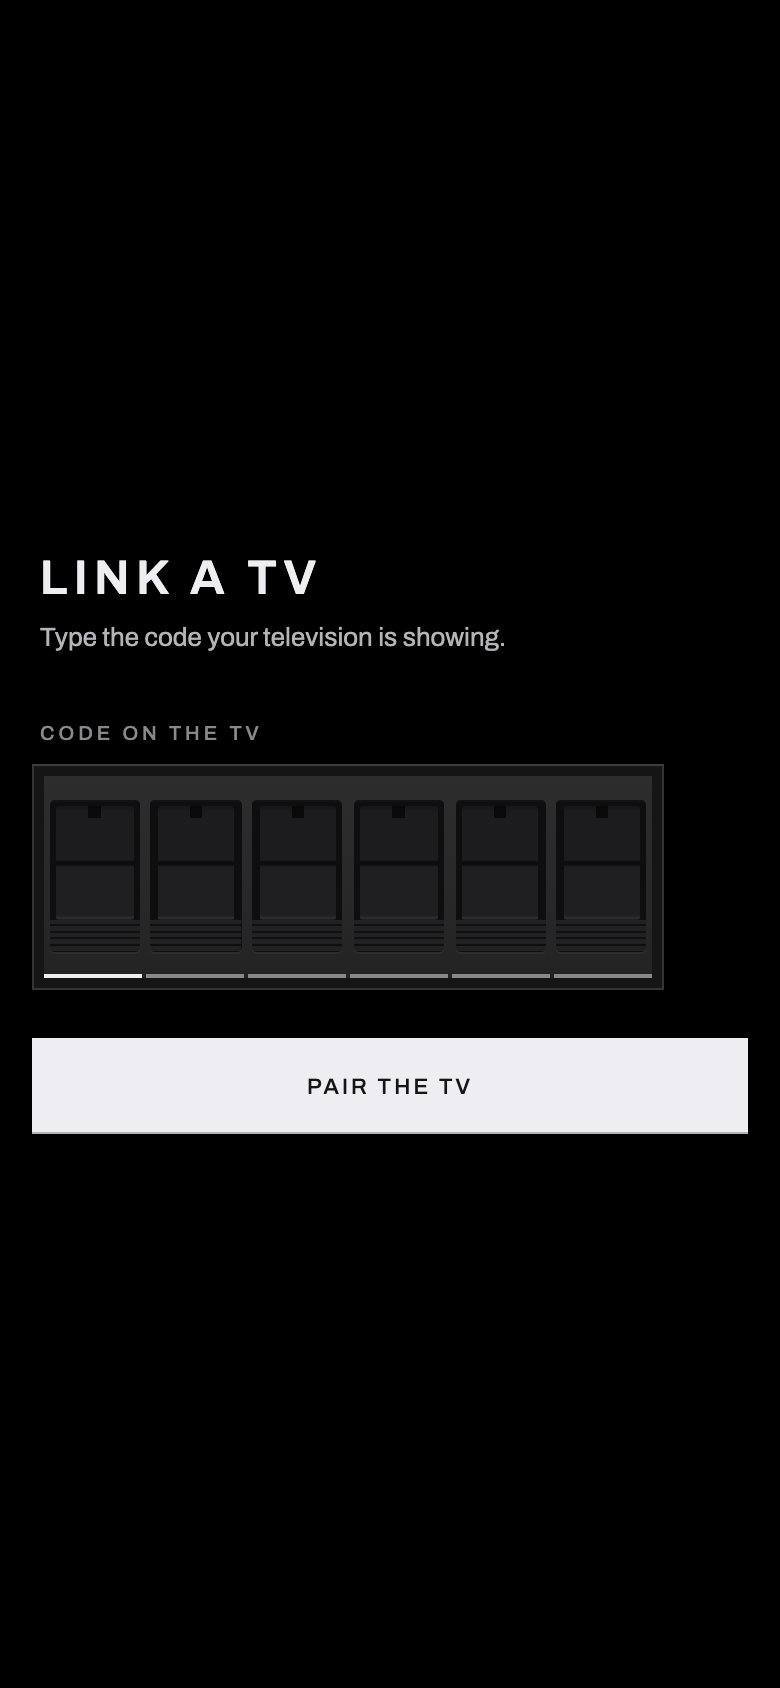
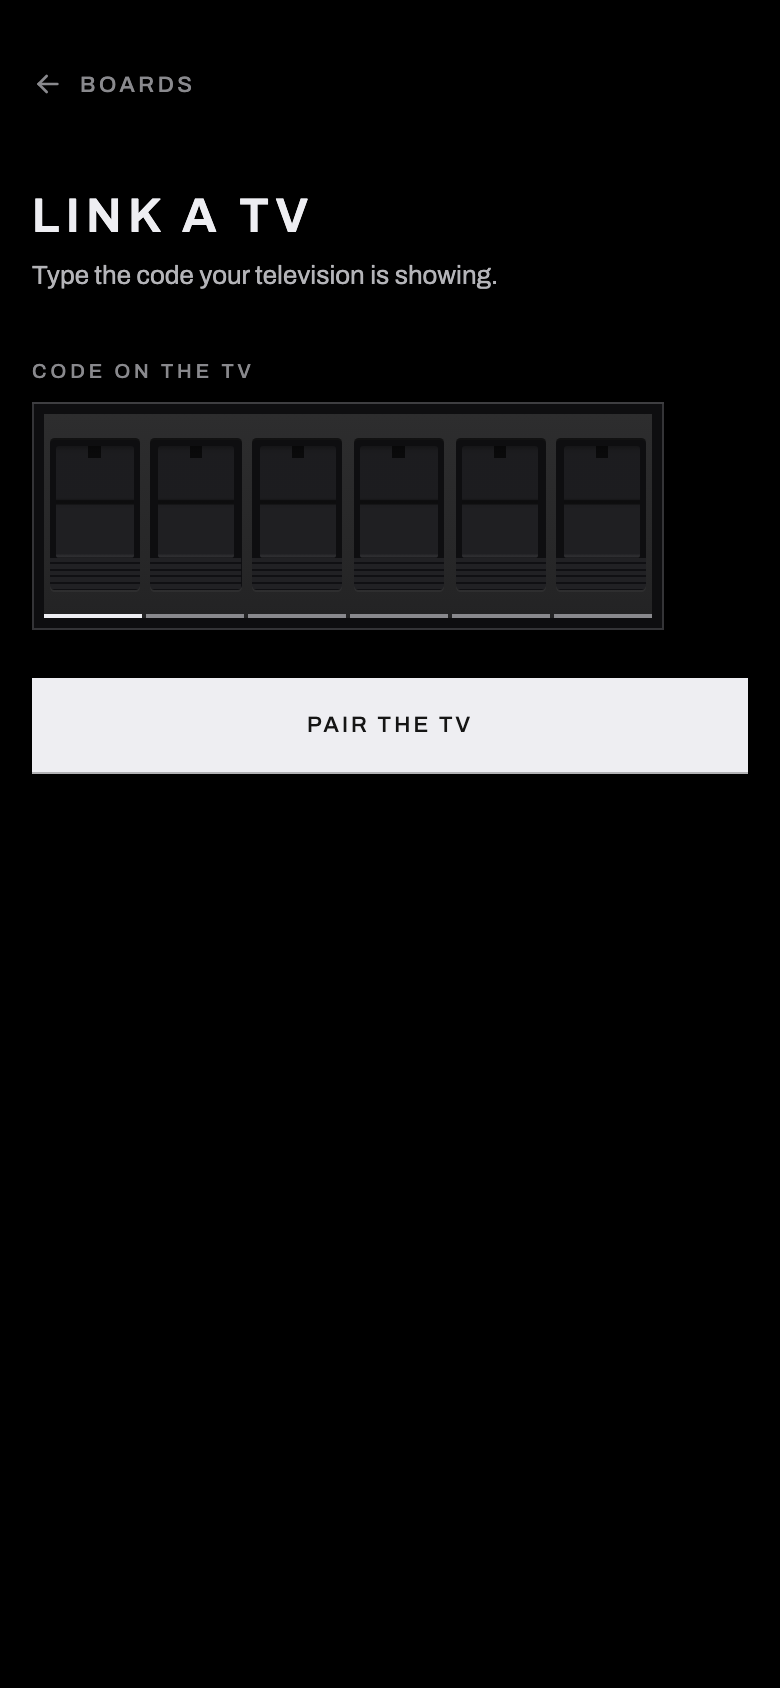
fix(design): third critic round — SHIP, plus the cheap P2/P3s
`design-critic` returned SHIP. No P0, no P1; all eight round-2 items
verified against the pixels with numbers (slot bars 5.2:1 empty and
15.9:1 on the next cell, swatches 64x48 CSS at 8px pitch, the pinned
action bar's bottom edge at CSS y=841 of an 844 viewport, one encoding of
"selected" across all five segmented controls).

Taken from the remaining P2/P3s:

- The label left rule. Three gutters coexisted because each label variant
  carried its own inset — MESSAGE at 20.5, RECENTLY at 24.5, everything
  else at 16. All flush now.
- The last nested container. PAIRED DEVICES wrapped one sentence and two
  hairline buttons in a fill; there is no plate left on that tab.
- `/link` was vertically centred with no way out. Centring looked calm and
  behaved badly: opening the phone keyboard halves the viewport, the block
  re-centres, and the field slides under the thumb mid-code. Top-anchored,
  and a refused code no longer leaves the browser gesture as the only exit.
- The copy key measured 39px against a 44px floor on one axis.
- The code field sits in the well tone rather than the panel, so unlit
  modules read as objects (1.11:1 → 1.17:1). Marginal, and honest: an
  unlit flap on a dark console IS low contrast — that is the object. The
  slot bars are what carry legibility.

Refuted, with the reason: the blank eighth swatch reads as a missing item
but is correct. `white` and `black` share a fill on the real board, so
[…]

diff --git a/app/routes/link.tsx b/app/routes/link.tsx
@@ -1,8 +1,10 @@
 import { useState } from "react";
 import { Effect, Exit } from "effect";
 import { useTranslation } from "react-i18next";
-import { Form, redirect, useNavigation } from "react-router";
+import { Form, Link, redirect, useNavigation } from "react-router";
 import type { AppLoadContext } from "react-router";
+
+import { IconArrowLeft } from "@tabler/icons-react";
 
 import type { Route } from "./+types/link";
 import { requireSession } from "@/lib/session";
@@ -289,7 +291,10 @@ function FlapCodeField({
       data-flap-code=""
       style={{
         padding: "6px",
-        backgroundColor: CONSOLE.panel,
+        // The WELL, not the panel: unlit faces (#1f1f22) measured 1.11:1 against
+        // the panel, so the six modules were invisible until typed. A hole is
+        // also what a set of flaps is actually cut into.
+        backgroundColor: CONSOLE.well,
         // A hairline ALWAYS, so the assembly reads as a control before anyone
         // touches it. The first pass showed a bare plate whose six unlit tiles
         // measured 1.15:1 against it — correct for a flap at rest, and
@@ -403,8 +408,27 @@ export default function LinkTv({
   const [code, setCode] = useState(loaderData.code ?? "");
 
   return (
-    <ConsoleField data-testid="link-root" className="justify-center gap-8">
-      <header className="flex flex-col gap-2 px-1">
+    /*
+      Top-anchored, not vertically centred. Centring looked calm and behaved
+      badly: when the phone keyboard opens the viewport halves and the whole
+      block re-centres, so the field a person is typing into slides under their
+      thumb mid-code. A fixed top also means the heading does not move between
+      the empty and the failed state.
+    */
+    <ConsoleField data-testid="link-root" className="gap-8">
+      {/* The way out. A refused code used to leave the browser gesture as the
+          only exit — on a phone, in a flow someone entered by scanning a QR. */}
+      <Link
+        to="/boards"
+        className={`inline-flex min-h-11 w-fit touch-manipulation items-center gap-2 text-[11px] font-medium uppercase ${FOCUS_RING}`}
+        style={{ color: CONSOLE.inkMute, letterSpacing: "0.16em" }}
+        data-testid="link-back"
+      >
+        <IconArrowLeft className="size-4" aria-hidden />
+        {t("controller.back")}
+      </Link>
+
+      <header className="flex flex-col gap-2">
         <h1
           className="text-[24px] leading-none font-semibold uppercase"
           style={{ color: CONSOLE.ink, letterSpacing: "0.14em" }}
@@ -422,7 +446,7 @@ export default function LinkTv({
       <Form method="post" className="flex flex-col gap-6">
         <div className="flex flex-col gap-2.5">
           <span
-            className="px-1 text-[10px] leading-none font-medium uppercase"
+            className="text-[10px] leading-none font-medium uppercase"
             style={{ color: CONSOLE.inkMute, letterSpacing: "0.2em" }}
           >
             {t("link.codeLabel")}

diff --git a/app/components/board/controller-settings.tsx b/app/components/board/controller-settings.tsx
@@ -14,7 +14,6 @@ import {
   CONSOLE,
   ConsoleLabel,
   ConsoleReadout,
-  PLATE_LIP,
   WELL_LIP,
 } from "@/components/board/console";
 import { ConsoleAddress } from "@/components/board/console-address";
@@ -93,12 +92,12 @@ export interface ControllerSettingsProps {
  */
 const GROUP = "flex flex-col gap-3";
 
-/** A plate, for the one section that holds content rather than controls. */
-const PLATE = "flex flex-col gap-3 px-3 py-3";
-const PLATE_STYLE = {
-  backgroundColor: CONSOLE.panel,
-  boxShadow: PLATE_LIP,
-} as const;
+/*
+  There is no `PLATE` on this tab any more. The device list was the last thing
+  holding one, on the reasoning that a *list* is content rather than controls —
+  but the list is one sentence and two hairline buttons, so the fill was the
+  only nested container in the product and bought nothing.
+*/
 
 /** The one action treatment: off-white plate, dark ink, square, 44px. */
 const INK_KEY =
@@ -488,7 +487,7 @@ export function ControllerSettings({
                 value={deviceList.length}
               />
             </ConsoleLabel>
-            <div className={PLATE} style={PLATE_STYLE}>
+            <div className={GROUP}>
               {deviceList.length === 0 ? (
                 <p
                   className="text-[12px] leading-relaxed"

diff --git a/app/components/board/console-address.tsx b/app/components/board/console-address.tsx
@@ -89,7 +89,7 @@ export function ConsoleAddress({
   return (
     <div className={cn("flex flex-col gap-1.5", className)}>
       <span
-        className="px-1 text-[10px] leading-none font-medium uppercase"
+        className="text-[10px] leading-none font-medium uppercase"
         style={{ color: CONSOLE.inkMute, letterSpacing: "0.2em" }}
       >
         {label ?? t("card.tv_label")}
@@ -123,7 +123,7 @@ export function ConsoleAddress({
           onClick={handleCopy}
           data-testid={`${testId}-copy`}
           aria-label={t("card.copy")}
-          className="flex min-h-11 shrink-0 touch-manipulation items-center gap-1.5 px-3 text-[11px] font-medium uppercase"
+          className="flex min-h-11 min-w-11 shrink-0 touch-manipulation items-center justify-center gap-1.5 px-3.5 text-[11px] font-medium uppercase"
           style={{
             color: CONSOLE.inkDim,
             letterSpacing: "0.14em",
@@ -144,7 +144,7 @@ export function ConsoleAddress({
       <span
         aria-live="polite"
         className={cn(
-          "px-1 text-[11px] transition-opacity",
+          "text-[11px] transition-opacity",
           state === "manual" ? "opacity-100" : "h-0 overflow-hidden opacity-0"
         )}
         style={{ color: CONSOLE.inkMute }}

diff --git a/app/components/board/message-editor.tsx b/app/components/board/message-editor.tsx
@@ -1283,7 +1283,10 @@ export function MessageEditor({
             type="button"
             aria-expanded={rowsOpen}
             onClick={() => setRowsOpen((open) => !open)}
-            className="flex min-h-11 touch-manipulation items-center justify-between px-1 text-[10px] leading-none font-medium uppercase"
+            // Flush with the block below it — no `px-1`. This label is a
+            // button, and its inset put MESSAGE on a different left rule from
+            // LIVE BOARD and VOICE on the same screen.
+            className="flex min-h-11 touch-manipulation items-center justify-between text-[10px] leading-none font-medium uppercase"
             style={{ color: CONSOLE.inkMute, letterSpacing: "0.2em" }}
             data-testid="control-editor-rows-toggle"
           >

diff --git a/.brain/features/console-journey-v2/verifications/2026-07-31.md b/.brain/features/console-journey-v2/verifications/2026-07-31.md
@@ -15,7 +15,7 @@
 |---|------|----------|----------|------------|--------|
 | 01 | Open `/tv` | Pairing code rendered as six real flaps, unlit with white glyphs — not a mono readout | Six flaps on a lipped plate under a silkscreened "OR TYPE"; QR above; amber pilot lamp lit | [`01-tv-flap-code.png`](../screenshots/01-tv-flap-code.png) | ✅ |
 | 02 | Read the code programmatically | Available without parsing doubled glyph text | `data-text="EUAZNZ"` on the `tv-code` element. (The flaps render each glyph **twice** — two stacked faces — so `textContent` is `"EEUUAA…"`. The attribute exists because of that.) | — | ✅ |
-| 03 | Open `/link` | A code field and nothing else — no board picker, no `<select>`, no naming field, no segmented "existing / new" track | One labelled field, autofocused with the amber bezel, one ink key | [`02-link-code-field.png`](../screenshots/02-link-code-field.png) | ✅ |
+| 03 | Open `/link` | A code field and nothing else — no board picker, no `<select>`, no naming field, no segmented "existing / new" track | Six flap modules in a well as the field itself, with a slot bar under each and the next cell lit; a back link, the heading, one ink key. (This step was re-run after the design rounds — it started as a plain mono input.) | [`02-link-code-field.png`](../screenshots/02-link-code-field.png) | ✅ |
 | 04 | Open the controller | Content \| Settings tabs at `/b/:boardId/c` — path unchanged | Tabs full-width in a recessed groove; nameplate and REV above; account bar above that | [`03-controller-content.png`](../screenshots/03-controller-content.png) | ✅ |
 | 05 | Content tab, nothing composed | ONE board, showing the live socket state, labelled "LIVE BOARD" | Shows `EPOCH CHECK` — the board's actual revision 97 content, off the socket | [`03-controller-content.png`](../screenshots/03-controller-content.png) | ✅ |
 | 06 | Type `HELLO` into row 1 | The same rectangle swaps to the draft and relabels | Label becomes "PREVIEW", grid shows `HELLO`; wells sit below the instrument, not above it | [`04-controller-composing.png`](../screenshots/04-controller-composing.png) | ✅ |
@@ -74,7 +74,13 @@ Driven at 390×844 after the fixes below. **Read after a 400ms settle, never on 
 | Three "selected" encodings | every one of them passes contrast and target size individually |
 | Mute switch reading backwards | `aria-checked` was correct; the *semantics* were inverted |
 
-**Deliberately not taken, and recorded as owed rather than fixed:** desktop composition (a 416px column centred in 1440 with no adaptation — the rack is the one screen with content worth arranging at width), `/tv` at 1440 (the code strip is ~250px on a screen meant to be read across a room), and two copy repeats. All P2, none of them phone-first, and the desktop pass is properly its own piece of work.
+**Round 3 → SHIP.** No P0, no P1. All eight round-2 items verified against the pixels, with numbers: `/link`'s slot bars measure 5.2:1 empty and 15.9:1 on the next cell; the swatches are 64×48 CSS at 8px pitch; one encoding of "selected" survives across all five segmented controls; the pinned action bar's bottom edge lands at CSS y=841 of an 844 viewport. Its verdict on the whole: *"the split-flap module is the atomic UI primitive, not a picture of one — one idea carried structurally through every surface at four scales."*
+
+Seven P2s and six P3s remained at that point. Taken in a final pass: the label left-rule stagger, the last nested container (`PAIRED DEVICES`), `/link` being vertically centred with no exit (it re-centred under the thumb when the keyboard opened, and a refused code left only the browser gesture), the copy key at 39px against a 44px floor, and the code field's plate moved to the well tone.
+
+**Refuted, with the reason:** the blank eighth swatch reads as a missing item to a critic but is correct — `white` and `black` share a fill on the real object, so `white` is *a white glyph on an unlit flap* and `black` is *an unlit flap*. Drawing a glyph on it would make the two indistinguishable, which is the defect the blank exists to prevent.
+
+**Deliberately not taken, and recorded as owed rather than fixed:** desktop composition (a 416px column centred in 1440 with no adaptation — the rack is the one screen with content worth arranging at width), `/tv` at 1440 (the code strip is ~250px on a screen meant to be read across a room), and two copy repeats. All P2, none of them phone-first, and the desktop pass is properly its own piece of work. Also owed: the row inspector opens below the fold when summoned in paint mode (needs a scroll-into-view), and white carries both "current" and "commit" — a second lit weight would separate them, but that is a token decision rather than a fix.
 
 ## Findings for main thread
 
